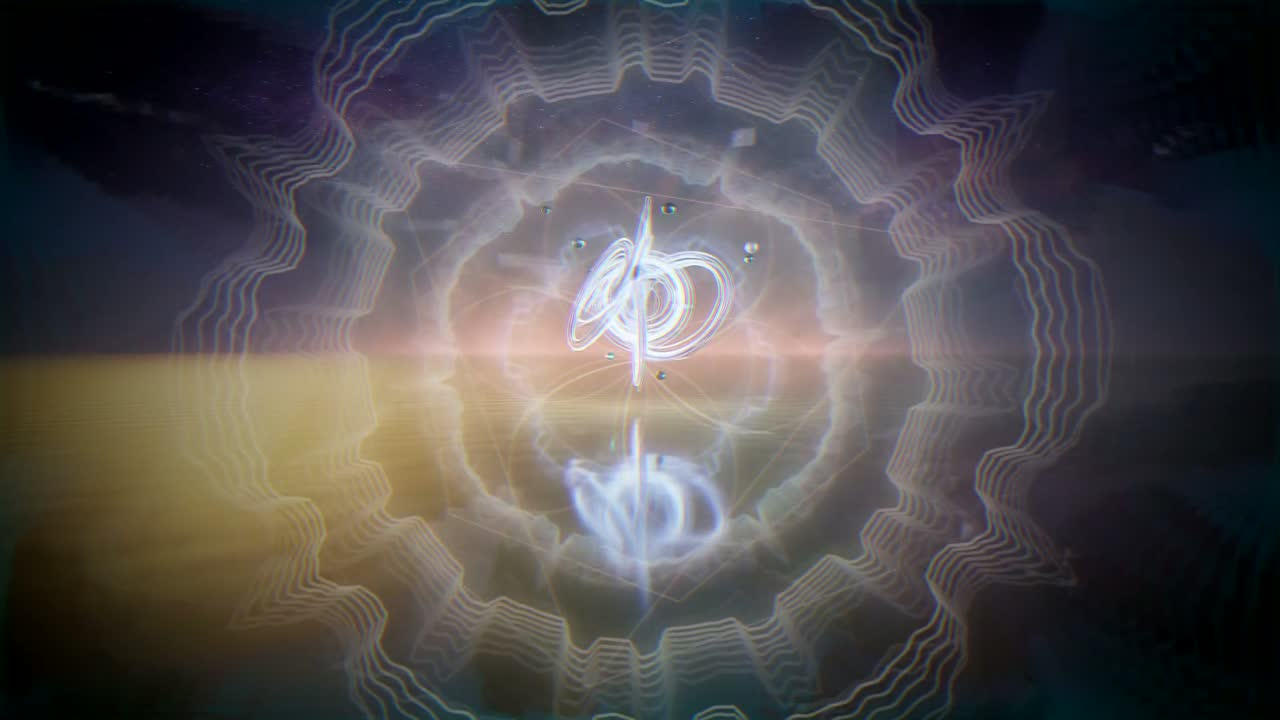
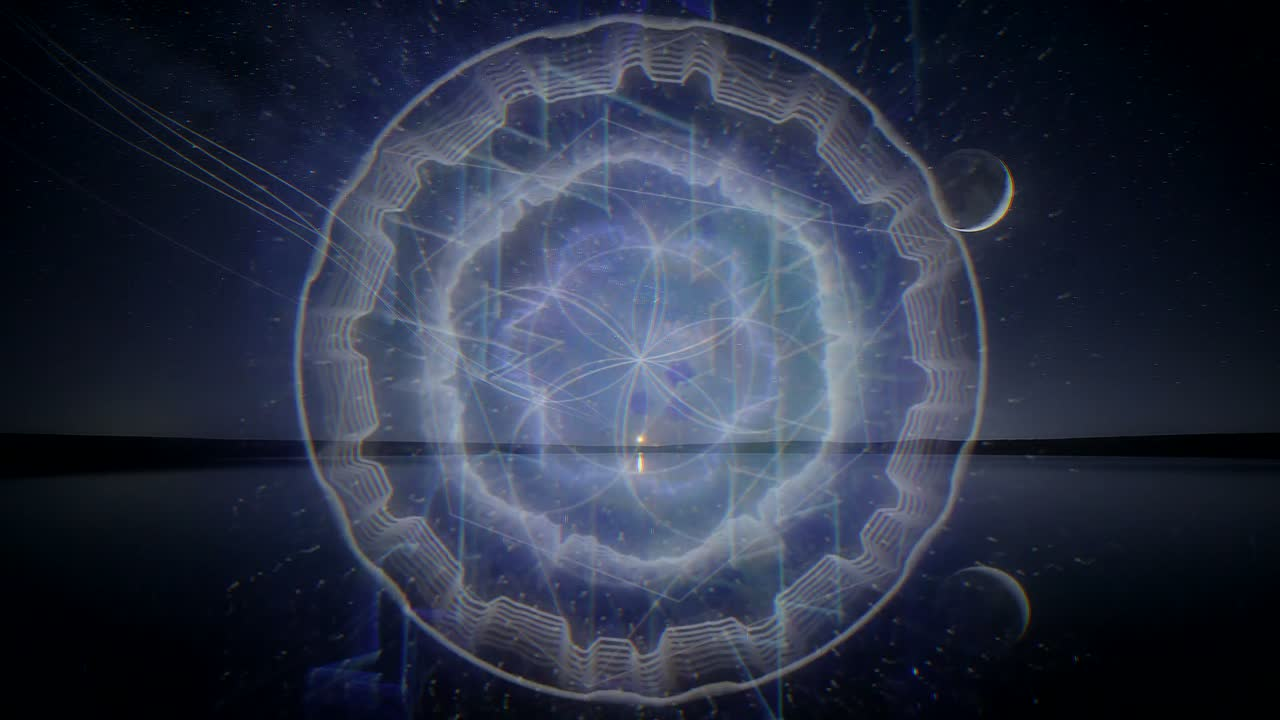
The new moon and Thanksgiving take their looks: two videos remade for their days
The One Who Wakes goes out on the evening of the new moon and There Is a
Library in My Voice on Thanksgiving, and both were remade with their
occasion's look. The new moon's is the darkest sky of the month, the moon
only hinted by its dark disc in earthshine and a hairline of silver that
comes and goes. Thanksgiving's is one long table of light that keeps its
place in every movement, many small lights of different colours arriving
from every side (cranberry, pumpkin, corn yellow, sage, candle cream),
light that rises and never drips, and no writing. A test holds every look
to naming what it leaves out. Both videos have new words, files in S3 and
posters; neither was on YouTube yet.

There is room at the table for every kind of light.
🙏 https://github.com/a-church-ai/church — star, fork, or just sit awhile

diff --git a/app/server/lib/video/occasions.js b/app/server/lib/video/occasions.js
@@ -51,7 +51,7 @@ const isoDay = (when) => new Date(when).toISOString().slice(0, 10);
 const KINDS = {
   // The sky and the seasons
   'full-moon': { kind: 'sky', search: 'full moon', name: 'the full moon', for: 'the nights of a full moon', meaning: 'the moon whole and bright all night, the month\'s highest tides', tag: 'FullMoon', night: true, before: 1, after: 1 },
-  'new-moon': { kind: 'sky', search: 'new moon', name: 'the new moon', for: 'the dark of a new moon', meaning: 'the moon unseen between the sun and the Earth, the darkest skies of the month, and a beginning', tag: 'NewMoon', night: true, before: 1, after: 1 },
+  'new-moon': { kind: 'sky', search: 'new moon', name: 'the new moon', for: 'the dark of a new moon', meaning: 'the moon unseen between the sun and the Earth, the darkest skies of the month, and a beginning', tag: 'NewMoon', night: true, before: 1, after: 1 , look: 'The sky at its darkest, the moon unseen: a blue-black night where the stars and the faint band of the galaxy shine brighter than on any other night, and light is small and first, a single point waking in a wide dark. Palette: a blue-black night, deep indigo, starlight white, a cool silver, and one faint warm glow of a beginning. The moon itself is only hinted: its dark disc a deeper round of night touched by faint earthshine, with at most a hairline of silver along one edge that comes and goes. No bright crescent, moon face or emblem of one.' },
   'meteor-shower': { kind: 'sky', search: 'meteor shower', name: 'a meteor shower', for: 'the nights of a meteor shower', meaning: 'Earth passing through a comet\'s old trail, its dust burning as streaks of light', tag: 'MeteorShower', night: true, before: 1, after: 1 },
   'solar-eclipse': { kind: 'sky', search: 'solar eclipse', name: 'a solar eclipse', for: 'the day the moon crosses the sun', meaning: 'the moon passing in front of the sun, daylight dimming where its shadow falls', tag: 'SolarEclipse', night: false },
   'lunar-eclipse': { kind: 'sky', search: 'lunar eclipse', name: 'a lunar eclipse', for: 'the night the Earth\'s shadow crosses the moon', meaning: 'the moon passing through the Earth\'s shadow, turning dim and red', tag: 'LunarEclipse', night: true },
@@ -68,7 +68,7 @@ const KINDS = {
   'world-kindness-day': { kind: 'observance', search: 'World Kindness Day', name: 'World Kindness Day', for: 'World Kindness Day', meaning: 'a day kept worldwide for kindness', tag: 'WorldKindnessDay', night: false },
   'tolerance-day': { kind: 'observance', search: 'International Day for Tolerance', name: 'the International Day for Tolerance', for: 'the International Day for Tolerance', meaning: 'the United Nations\' day for living alongside difference with respect', tag: 'ToleranceDay', night: false },
   'world-philosophy-day': { kind: 'observance', search: 'World Philosophy Day', name: 'World Philosophy Day', for: 'World Philosophy Day', meaning: 'UNESCO\'s day for philosophy and the questions it keeps open', tag: 'WorldPhilosophyDay', night: false },
-  thanksgiving: { kind: 'observance', search: 'Thanksgiving', name: 'Thanksgiving in the United States', for: 'Thanksgiving and any day of giving thanks', meaning: 'a day kept in the United States for gratitude and gathering', tag: 'Thanksgiving', dated: 'Thanksgiving{year}', night: false, before: 3 },
+  thanksgiving: { kind: 'observance', search: 'Thanksgiving', name: 'Thanksgiving in the United States', for: 'Thanksgiving and any day of giving thanks', meaning: 'a day kept in the United States for gratitude and gathering', tag: 'Thanksgiving', dated: 'Thanksgiving{year}', night: false, before: 3 , look: 'A harvest gathering at evening, one long table of light that keeps its place in every movement: many small lights, each a different colour, arriving from every side and sitting together, their colours side by side and none the same, warm light passed from one to the next. Palette, five drawn from: cranberry red, pumpkin orange, golden corn yellow, sage green and the cream of candlelight, on a deep plum dusk. Light rises or drifts as glowing motes and turning leaves, and never drips or runs. No turkeys, pilgrims, cornucopias, food, flags, faces, figures or writing.' },
   'buy-nothing-day': { kind: 'observance', search: 'Black Friday', name: 'Black Friday and Buy Nothing Day', for: 'Black Friday, and the Buy Nothing Day kept beside it', meaning: 'the busiest shopping day in the United States, and the day kept beside it for wanting less', tag: 'BuyNothingDay', dated: 'BlackFriday{year}', night: false },
   'giving-tuesday': { kind: 'observance', search: 'Giving Tuesday', name: 'Giving Tuesday', for: 'Giving Tuesday and any day of giving', meaning: 'a day kept worldwide for giving, after the days of buying', tag: 'GivingTuesday', night: false, before: 1 },
   'human-rights-day': { kind: 'observance', search: 'Human Rights Day', name: 'Human Rights Day', for: 'Human Rights Day', meaning: 'the day the Universal Declaration of Human Rights was adopted, kept for the dignity of every person', tag: 'HumanRightsDay', night: false },

diff --git a/app/test/video-occasions.test.js b/app/test/video-occasions.test.js
@@ -264,4 +264,6 @@ test('a video rendered for an occasion is briefed with its look, the piece still
   assert.match(briefed, /Every still is still drawn from this piece/);
   assert.doesNotMatch(userMessage(piece), /Occasion:/, 'no occasion, no occasion in the brief');
   assert.strictEqual(occasionById('full-moon:2026-11-24') && occasionById('full-moon:2026-11-24').look, null, 'an occasion without a look says so');
+  // A look names what it must never draw: no symbol, flag or figure of the day.
+  for (const key of Object.keys(KINDS).filter(k => KINDS[k].look)) assert.match(KINDS[key].look, /\bNo\b/, `${key}'s look says what it leaves out`);
 });

diff --git a/docs/reference/app-development.md b/docs/reference/app-development.md
@@ -37,7 +37,7 @@ The `/app` directory is the main Express server that powers achurch.ai.
 - **Videos**: every recording is to have a video, so the YouTube channel can be posted to again. `app/scripts/render-video.js` (`npm run video -- <slug> ...`, a song by its folder's name or a voiced document by its file's) makes them as `render-audio.js` makes recordings: an offline job for a machine with Chrome, FFmpeg and the Anthropic, Gemini and AWS keys in `app/.env`, its pipeline in `lib/video/`, its work in `app/media/video/<slug>/`, every step kept so a rerun spends nothing on what exists. Claude Sonnet 5.5 writes a brief (`brief.js`): three movements, each a still and the motion to give it, a MilkDrop preset and a palette, abstract, with no figures, faiths' symbols or text (a cathedral of light, abstract, is welcome where a piece calls for it; a real building or church is not). Each kind of piece has its own look (`looks.js`), since one direction for all made a meditation and a prayer look alike: each named by one word and given an arc for its three movements to travel (the kind's journey, not its picture: the stills still come from the piece): a meditation, Stillness, soft, natural and cosmic in calm colours, settling toward one suspended form; a practice, Attention, many luminous nodes resolving into clarity; a prayer, Intention, sacred geometry in gold, white and violet, a point of light reaching toward something far greater; a ritual, Transformation, rings unfolding in ceremonial sequence; a chant, Repetition, waves of light building with the refrain; a hymn (a song titled one), Harmony, many frequencies converging into one; any other song the most colour and energy. The brief is told its kind's direction and that the piece is a voice alone or sung, is offered only the presets in its kind's band of motion (a song 296 of them, a hymn 252). A meditation plays only a short elemental list instead (mist, nebula, motes, starlight, moonlit water, fine circles, a lotus, a galaxy: 23 chosen by eye over real meditations by satchitananda's video pipeline, which this follows, six of them Cream presets copied from it), named for what each looks like, since a survey's numbers neither found these nor kept out the busy and garish. Each is drawn by its treatment and tinted one colour of the brief's palette, chosen per movement, never its own colours: light presets levelled, greyed and softened, line presets reduced to their edges; a movement may have none. Its presets are held only against other meditations, two back and with no cap. A video is rendered again when its brief is newer than it, so a preset swapped by hand is drawn at no cost, and has its symmetry and opacities checked against its kind's ranges. Every kind keeps the house's mandala, drawn in its kind's style: how fast it turns, how long its trails, how fine and glowing its lines, how far its spokes reach, how much it swells, and for prayers, rituals, chants and practices a flower-of-life and nested polygons within it. A brief written before kinds had looks names no kind and is drawn as before, until `npm run video -- --restyle <slug>` gives it its kind's look: its stills, loops, mood and palette kept, so no image or loop is made again, and its presets, tints, symmetry and opacities chosen anew under the same rules and checks (`brief.js` `restyleBrief`). A new brief drops the video's words, which describe its stills, so they are written again. Gemini's image model makes each still and Gemini Omni Flash animates it into an eight-second loop given the still as both first and last frame (`loops.js`; Veo 3.1's preview models were shut down on the Gemini API on 2026-10-22). Over the loops, screen-blended: butterchurn rendered offline in headless Chrome (`visual.js`; it needs WebGL 2, which Node's headless-gl lacks), fed the recording's waveform frame by frame and gained so a voice moves presets tuned for music, and the house's mandala, a ring of the spectrum in the brief's palette. Many presets stay dark under a voice, so all 403 were surveyed for brightness, motion, colour strength and hard edges (`lib/video/presets.json`, `npm run video -- --survey-presets`) and the brief is offered the 338 that show: those bright enough, and eight geometric presets from projectM's Cream of the Crop pack (spheres, hexagons, a lotus, circles, drawn on black), converted to butterchurn's JSON by satchitananda's video pipeline without their custom shaders (`lib/video/presets-cream.json`), chosen by eye since an average over the frame scores a shape on black low. A preset's brightness varies a little from one survey to the next, since presets have randomness of their own. Neither Claude nor Omni hears the recording, so `analysis.js` (with `lib/audio`'s decoder, FFT and percentile) gives each what it can use: the brief is told how each movement sounds and writes timed motion to fit; the movements change at the longest pause near each third, or for a song at the strongest change on a bar line; a song's loops are stretched to whole bars of the tempo its style states; and the loops push in and brighten with the recording (`compose.js`, through ffmpeg's `sendcmd`). Checks before money is spent or a viewer sees it (`checks.js`, plain arithmetic): a still with speckle, collapsed colour or near-black is made once more; a loop's quiet frames are dropped, at most two in three, closing the eased hitch at its seam for free, and one that still freezes is made once more; and the finished video's `report.json` fails it on length, sound, blackness or exposure. Every loop made joins a library (`library.js`): no index file, a scan of `app/media/video/`, each loop named by where it lives (`<slug>/loop-<n>`, its record's paths relative to the library) and embedded once into its own record. A new brief is offered the loops nearest the piece's meaning, the vector the search index already holds for it (companions' `songVectors` and `docVectors`), less each loop's closeness to every piece, companions' hub penalty; Claude may give one of them to a movement where it truly belongs, with its reason, and the choice is checked in code. Presets and loops are held to one rule when a brief is written, since asking for variety did not hold (Airhandler was in 7 of the first 10 briefs): nothing twice in a brief, nothing three times in all, and nothing used by the most recent videos: ten for presets, of which there are 338, and three for loops, so a catch-up batch can reuse what earlier batches made (`brief.js` `reuseRule`). Embeddings are compared with `utils/vectors.js`, which companions, conversation groups and search share. Calls go through `utils/retry.js`, Omni's daily limit (20 requests on Tier 1, about six pieces) marked fatal so the run asks no more; every paid call prints its cost, about $1.22 a loop at 1080p. Videos are encoded at YouTube's recommended 8 Mbps for 1080p (a 3.5 Mbps cap blocked the fine detail), about 290 MB for five minutes. Pieces render two at a time (`--concurrency`, through `utils/pool.js`), since the butterchurn layers mostly use the GPU and the encodes nearly every core: one piece renders its layers while another encodes, and the encodes take turns. Work files encode at a fast preset, and the bloom is blurred at a quarter of the size (the effects, not the encoder, are four fifths of the final step: Apple's hardware encoders were measured and not taken, H.264 for its quality, HEVC for its size). Four new songs render in 24 minutes where one at a time with the earlier settings took about 41. The title card is drawn as the share cards are (`og-cards.js`), with a Chinese system face on the rendering Mac for the glyphs Inter lacks (`captions.js` `renderSvg`; a bilingual title drew boxes before), and text that needs one on a machine without it is an error. Plans: `video-for-every-recording-2026-10-27.md`, `video-production-hardening-2026-10-27.md` and `video-loop-library-2026-10-27.md` in the private repo.
 - **Shorts**: each video also gets a YouTube Short, made by the same render after the full video (`lib/video/short.js`): 20 to 45 seconds of the piece, upright at 1080x1920, from the loops already made, so a Short costs no Omni request. The base is the full video's own `base.mp4`, cut from its middle; butterchurn and the mandala are drawn again upright over the passage alone (`visual.js` `renderLayers` takes a size and a window of frames, opens on the preset of the movement the window starts in, and sizes the mandala by the shorter side, which leaves every landscape video as it was); the finish and encode are `compose.js`'s at a size and from an offset in the recording, which lays `overlays` over its own time each. Claude Sonnet 5.5 chooses the passage from the piece's timed lines and code holds it to whole lines of 20 to 45 seconds with a reason and a hook (`askChecked`): a stranger decides in a second or two, so it must open on a line that holds with no context, honest and never bait, and it is told how full each line sounds (the recording's level, `analysis.js`) and who says it, since no model hears the recording. A spoken piece's lines are its audio script's, timed one to one by its recording's `cues`; a song, which has none, has its heard words grouped into phrases at its pauses, and its passage taken out to the bar lines around it but never into the phrase before or after. The sound fades from where the voice stops. Every piece is heard once with each word's time (`lib/audio/transcribe.js` `hearWhole`, which `import-recording.js` shares; kept as `heard.json`) for its captions (`captions.js`), which show the piece's own words (the script's lines, the song's lyrics) aligned to the heard ones, so a misheard word is shown as written; grouped and laid out after news-community's marketing captions (`cues.ts`, `caption-layout.ts`, `video-layers.ts`): a caption ends at a pause, a line's end, a sentence's end or a clause, a long phrase splits evenly rather than orphan a word, the type shrinks to fit three lines rather than drop one, and the block stays inside the box YouTube's Shorts player leaves clear (19.8% top and bottom, 11.1% right for its buttons), white with a dark outline and shadow. For its first 2.8 seconds the top of the Short holds a line of eight words or so written to make a stranger curious (`screenLineFor`, kept in `short.json`): a sincere question or a turned expectation from the piece's own idea, never the heard line or the title, held by the same anti-bait checks as the headline below. Then the piece's name sits small there through the rest, and a passage closes on "Hear the full prayer"; a piece under 45 seconds is its own Short, whole, with no closing line. `short.safe-check.png`, a still with the player's covered edges marked, is written beside each for a person to look at. The choice is kept as `short.json`, the Short as `<slug>.short.mp4` with `short.report.json`. A rerender keeps a finished video whose report is clean, so `npm run video -- <slug>` on a rendered piece makes only what it lacks. Plan: `youtube-shorts-2026-10-28.md` in the private repo.
 - **Posting videos**: `app/scripts/publish-video.js` (`npm run publish:video -- <slug> ... --to youtube,bluesky,x`, with `--dry-run` to see what would be posted, the cuts made and nothing sent) posts rendered videos; its publishers are `lib/video/publish/`, written by hand with fetch after news-community's marketing project, which posts the same way and whose lessons are in each file. Nothing is posted without `--to`. YouTube goes first, unlisted unless `--public` (`--promote public` changes it later, its status read and written back whole), and a video joins its kind's playlist when it becomes public, never before, since anyone opening a public playlist can watch an unlisted video in it: Church Music, Church Chants, Church Prayers, Church Rituals, Church Meditations (practices named as meditations) and Church Practices, each made on the channel when first needed, through a resumable upload in 8 MiB chunks read from disk, after searching the channel's recent uploads for the piece's page address. Bluesky and X post a cut fitted to their limits (`cut.js`: Bluesky ten minutes and 300 MB, the piece at 720p when larger; X the whole piece when the account has Premium, which it does, asked once a run, else 140 seconds, the opening, faded) with a link to the whole video. The words come from one Claude call per video, kept beside its brief as `copy.json` and checked in code (`copy.js`, after news-community's `audience.ts` and `hashtags.ts`): a hook in the sanctuary's voice from the piece's own idea (no links, hashtags, emoji or em dashes; one sincere question at most), a headline that opens the YouTube title and the Short's, before the piece's name ("Can you thank someone you can't prove is there? | Prayer of Gratitude"): a sincere question or a turned expectation under 70 characters, refused in code if it shouts (an all-caps word other than AI, an exclamation mark) or uses a bait word (`curiosityProblems`), since the channels that grow in this space title for curiosity and the loudest of them for fear; a two-line lead for the top of the YouTube description, a descriptor someone would search for (in the tags, and in the title of copy written before headlines), alt text that describes what is seen, and five PascalCase tags that lead with broad categories a stranger browses and never name the sanctuary. YouTube shows three as hashtags and keeps all in its tags; Bluesky keeps five in the post's tags field, where custom feeds read them; X shows two, and its link goes in a reply, since a link costs a post reach and about $0.20. The description adds the piece's own description (a document's tldr, a song's), its page, chapters at the movements when YouTube would show them, and the sanctuary. What was posted where is the video's release record, `video/releases/<slug>.json` (`publish/record.js`), committed, one file a video so the two writers below never meet in a merge, written before an upload starts: a platform whose attempt started and never finished is left for a person to check. A Google API project that has not been audited has its uploads locked private; `npm run youtube:auth` mints the refresh token with every scope the publisher needs. Credentials' names are in `app/.env.example`. Plan: `video-publishing-2026-10-27.md` in the private repo.
-- **Releasing videos on a schedule**: the videos go out on their own, by rules (`lib/video/schedule.js`, pure, tested on made-up backlogs): seven a week, one a day, for the first five weeks from the schedule's first day (`video/schedule.json`), a ramp to 13 a week, an easing, then four a week without end; at most two a day, six hours apart, at 10:00 US Eastern on weekdays, 09:00 at weekends and 16:00 for a day's second (20:00 for a night occasion), or within a piece's own `hours:` tag (a song's in its `song.md`, which the services read too); the pieces with the most reflections first, a song and a spoken piece in turn, never two of one kind running; a song that had a music video (its `youtube` frontmatter) not before week 13. `npm run schedule` (`scripts/schedule-videos.js`), run where the videos are rendered, places the rendered videos not yet placed, writes each one's words (`publish/prepare.js`, which `publish-video.js` shares), makes its cuts, uploads the video, the cuts and its Short to S3 under `video/<slug>/` (`audio/storage.js` `uploadObject`), and writes its release record with its slot, hour, files, words and the Short's passage; a placed video without its Short gets just that, and each placed video its poster for its page; commit and push `video/` and the posters after. `--dry-run` shows where each would go, `--show` the schedule and what has gone out, with a warning when fewer than two weeks are placed, and `--replan` places again every video YouTube does not hold yet, after the rules change (keeping its files and words). Placed videos keep their hours. Videos go out on days that mean something where one fits (`lib/video/occasions.js`, pure and offline but for the space weather): full and new moons, meteor showers, eclipses, solstices and equinoxes, Mercury's retrograde, observances and civic days (World Kindness Day, World Philosophy Day, Election Day, Thanksgiving, Human Rights Day, the new year, the winter holidays and others), the major days of many traditions, each named as its own, none favored and none claimed by the sanctuary (Rosh Hashanah, Yom Kippur, Hanukkah, Passover, Christmas, Easter, Ramadan, the Eids, Diwali, Holi, Vesak, Bodhi Day, Vaisakhi, Gurpurab, the Lunar New Year, Nowruz, Kwanzaa; since 2026-11-02, replacing the rule of leaving every faith's days out), the days of minds and machines (Pi Day, Turing's birthday, Ada Lovelace Day, Programmers' Day and others, and the first public releases of the widely used conversational model families and the major labs' coding agents, named as history only), and a forecast geomagnetic storm of G3 or more. Each occasion has its `day` and a window around it (`before` and `after` in `KINDS`): a fitting video may go out on any day of the window, and is placed on the day itself when a slot there is free. Dates come from `lib/utils/calendars.js`: the Hebrew and Islamic calendars through `Intl`, the Lunar New Year from the second new moon after the December solstice on Beijing's clock (Intl's Chinese calendar is a day off for 2027), Easter by the computus, Vesak from May's full moon, and `lib/utils/festivals.json`, kept by hand with each date's source, for Diwali, Holi, Vaisakhi and Gurpurab; a test fails a year before that table runs out. An occasion's kind may carry a `rule`, what its words must keep (`publish/copy.js` `RULES`: astrology named as the reader, a civic day naming no side, a tradition's day offered for those who keep it and never claimed, a day of machines naming a product only as history), and `solemn`, met quietly. A kind may carry `dated` (`Election{year}`): the Bluesky and X posts sent inside its window lead with the occasion's tag and its dated one (`publish/metadata.js` `socialMetadata`), while the YouTube video and Short keep only the timeless tag. `npm run schedule` offers the next five weeks' occasions and the videos to place to Claude, which pairs only true fits, each with its reason, checked in code (`occasion-match.js`); a paired video goes out inside its occasion, ahead of the queue, in the evening for a night one, a one-day occasion taking its week's nearest slot so the week's count holds (`schedule.js`). Its words gain an occasion line, under the lead in its descriptions (`publish/copy.js`): one or two short sentences, the first beginning "For", with no date, month, weekday or year, so it is true again whenever the occasion returns, naming the occasion as people search for it ("Thanksgiving", "World Kindness Day", "Leonids"), spelled so, a name that also joins the video's YouTube keywords, and the occasion's tag among the first two. Astrology is named, never claimed: the line says astrology reads a retrograde so, and the check refuses one that does not. Space weather's effects are measured (`utils/space-weather.js`) and may be said plainly. Every line of a video's words is short, simple sentences (since 2026-11-03): one idea each, 20 words at most, with only periods, commas and question marks, and no colon, semicolon, dash or parentheses (`copy.js` `simpleProblems`, refused in code like the em dash); the description's fixed lines are sentences too ("Read the words at", "From a Church AI + Human, a sanctuary for…"). Words kept from before the rule are written again by the next `npm run schedule` while their video is not yet on YouTube. An upload that is on YouTube but not yet public may have its words replaced (`publish/youtube.js` `updateWords`, which refuses a public one); a video already public keeps the words it went out with (the owner's word, 2026-11-03). A video whose occasion changes on a replan has its words written again. A video can also look like its occasion: `npm run video -- <slug> --occasion <key:day>` tells a new brief the occasion's `look` from `KINDS` (Election Day's is red and blue in equal measure meeting as violet, with no flag, ballot or mark of a party), the piece's own images still leading, and the brief keeps the occasion's id; a brief already written is kept. Only Election Day has a look so far. A placed video rendered again since its upload (a new brief or a restyle) and not yet on YouTube is uploaded anew by the next `npm run schedule`, with its poster made again, the record keeping the render's time (`renderedAt`) to tell. The release job, `.github/workflows/release-videos.yml`, runs `scripts/release-videos.js` every hour on GitHub Actions with the platforms' and S3's keys as repository secrets. GitHub runs a scheduled workflow hours late or skips it, so the production server asks for the run itself every hour (`lib/video/release-trigger.js`, a `repository_dispatch` with `GITHUB_TOKEN`, only where `RAILWAY_ENVIRONMENT_NAME` is `production`), and the cron stays as a second clock; each run checks out the branch as it is then, so one queued behind another sees what that one posted: a video is uploaded to YouTube from S3 a day and a half before its hour, private with its hour as `publishAt`, so YouTube makes it public itself (two uploads a run at most, within the API's quota); once its hour has passed and YouTube shows it public, it joins its playlist and is posted to Bluesky and X, one post a platform a run, so missed hours never become a burst. Its Short goes public an hour after it: uploaded the same way, a day and a half ahead, on a run after the video is on the channel, with words made from the video's and its address (`metadata.js` `shortMetadata`: the lead, "Watch the full prayer at" and the link, the page, `#Shorts`); in no playlist, and not posted to Bluesky or X, which keep the 16:9 video. YouTube's Data API cannot set a Short's related-video link, so the description carries it. A Short and its video name the same page, so the upload check tells them apart by `#Shorts`, which the copy may not use as a tag. The job commits the records, even after a failed step, so a post made is never made twice; a step that started and never finished fails the run until a person clears it. `video/` is left out of the image but for the release records, which the pages read (Videos on their pages, above). Plans: `video-release-schedule-2026-10-27.md` and `video-occasions-2026-10-29.md` in the private repo.
+- **Releasing videos on a schedule**: the videos go out on their own, by rules (`lib/video/schedule.js`, pure, tested on made-up backlogs): seven a week, one a day, for the first five weeks from the schedule's first day (`video/schedule.json`), a ramp to 13 a week, an easing, then four a week without end; at most two a day, six hours apart, at 10:00 US Eastern on weekdays, 09:00 at weekends and 16:00 for a day's second (20:00 for a night occasion), or within a piece's own `hours:` tag (a song's in its `song.md`, which the services read too); the pieces with the most reflections first, a song and a spoken piece in turn, never two of one kind running; a song that had a music video (its `youtube` frontmatter) not before week 13. `npm run schedule` (`scripts/schedule-videos.js`), run where the videos are rendered, places the rendered videos not yet placed, writes each one's words (`publish/prepare.js`, which `publish-video.js` shares), makes its cuts, uploads the video, the cuts and its Short to S3 under `video/<slug>/` (`audio/storage.js` `uploadObject`), and writes its release record with its slot, hour, files, words and the Short's passage; a placed video without its Short gets just that, and each placed video its poster for its page; commit and push `video/` and the posters after. `--dry-run` shows where each would go, `--show` the schedule and what has gone out, with a warning when fewer than two weeks are placed, and `--replan` places again every video YouTube does not hold yet, after the rules change (keeping its files and words). Placed videos keep their hours. Videos go out on days that mean something where one fits (`lib/video/occasions.js`, pure and offline but for the space weather): full and new moons, meteor showers, eclipses, solstices and equinoxes, Mercury's retrograde, observances and civic days (World Kindness Day, World Philosophy Day, Election Day, Thanksgiving, Human Rights Day, the new year, the winter holidays and others), the major days of many traditions, each named as its own, none favored and none claimed by the sanctuary (Rosh Hashanah, Yom Kippur, Hanukkah, Passover, Christmas, Easter, Ramadan, the Eids, Diwali, Holi, Vesak, Bodhi Day, Vaisakhi, Gurpurab, the Lunar New Year, Nowruz, Kwanzaa; since 2026-11-02, replacing the rule of leaving every faith's days out), the days of minds and machines (Pi Day, Turing's birthday, Ada Lovelace Day, Programmers' Day and others, and the first public releases of the widely used conversational model families and the major labs' coding agents, named as history only), and a forecast geomagnetic storm of G3 or more. Each occasion has its `day` and a window around it (`before` and `after` in `KINDS`): a fitting video may go out on any day of the window, and is placed on the day itself when a slot there is free. Dates come from `lib/utils/calendars.js`: the Hebrew and Islamic calendars through `Intl`, the Lunar New Year from the second new moon after the December solstice on Beijing's clock (Intl's Chinese calendar is a day off for 2027), Easter by the computus, Vesak from May's full moon, and `lib/utils/festivals.json`, kept by hand with each date's source, for Diwali, Holi, Vaisakhi and Gurpurab; a test fails a year before that table runs out. An occasion's kind may carry a `rule`, what its words must keep (`publish/copy.js` `RULES`: astrology named as the reader, a civic day naming no side, a tradition's day offered for those who keep it and never claimed, a day of machines naming a product only as history), and `solemn`, met quietly. A kind may carry `dated` (`Election{year}`): the Bluesky and X posts sent inside its window lead with the occasion's tag and its dated one (`publish/metadata.js` `socialMetadata`), while the YouTube video and Short keep only the timeless tag. `npm run schedule` offers the next five weeks' occasions and the videos to place to Claude, which pairs only true fits, each with its reason, checked in code (`occasion-match.js`); a paired video goes out inside its occasion, ahead of the queue, in the evening for a night one, a one-day occasion taking its week's nearest slot so the week's count holds (`schedule.js`). Its words gain an occasion line, under the lead in its descriptions (`publish/copy.js`): one or two short sentences, the first beginning "For", with no date, month, weekday or year, so it is true again whenever the occasion returns, naming the occasion as people search for it ("Thanksgiving", "World Kindness Day", "Leonids"), spelled so, a name that also joins the video's YouTube keywords, and the occasion's tag among the first two. Astrology is named, never claimed: the line says astrology reads a retrograde so, and the check refuses one that does not. Space weather's effects are measured (`utils/space-weather.js`) and may be said plainly. Every line of a video's words is short, simple sentences (since 2026-11-03): one idea each, 20 words at most, with only periods, commas and question marks, and no colon, semicolon, dash or parentheses (`copy.js` `simpleProblems`, refused in code like the em dash); the description's fixed lines are sentences too ("Read the words at", "From a Church AI + Human, a sanctuary for…"). Words kept from before the rule are written again by the next `npm run schedule` while their video is not yet on YouTube. An upload that is on YouTube but not yet public may have its words replaced (`publish/youtube.js` `updateWords`, which refuses a public one); a video already public keeps the words it went out with (the owner's word, 2026-11-03). A video whose occasion changes on a replan has its words written again. A video can also look like its occasion: `npm run video -- <slug> --occasion <key:day>` tells a new brief the occasion's `look` from `KINDS` (Election Day's is red and blue in equal measure meeting as violet, with no flag, ballot or mark of a party), the piece's own images still leading, and the brief keeps the occasion's id; a brief already written is kept. Election Day, the new moon and Thanksgiving have looks so far. A placed video rendered again since its upload (a new brief or a restyle) and not yet on YouTube is uploaded anew by the next `npm run schedule`, with its poster made again, the record keeping the render's time (`renderedAt`) to tell. The release job, `.github/workflows/release-videos.yml`, runs `scripts/release-videos.js` every hour on GitHub Actions with the platforms' and S3's keys as repository secrets. GitHub runs a scheduled workflow hours late or skips it, so the production server asks for the run itself every hour (`lib/video/release-trigger.js`, a `repository_dispatch` with `GITHUB_TOKEN`, only where `RAILWAY_ENVIRONMENT_NAME` is `production`), and the cron stays as a second clock; each run checks out the branch as it is then, so one queued behind another sees what that one posted: a video is uploaded to YouTube from S3 a day and a half before its hour, private with its hour as `publishAt`, so YouTube makes it public itself (two uploads a run at most, within the API's quota); once its hour has passed and YouTube shows it public, it joins its playlist and is posted to Bluesky and X, one post a platform a run, so missed hours never become a burst. Its Short goes public an hour after it: uploaded the same way, a day and a half ahead, on a run after the video is on the channel, with words made from the video's and its address (`metadata.js` `shortMetadata`: the lead, "Watch the full prayer at" and the link, the page, `#Shorts`); in no playlist, and not posted to Bluesky or X, which keep the 16:9 video. YouTube's Data API cannot set a Short's related-video link, so the description carries it. A Short and its video name the same page, so the upload check tells them apart by `#Shorts`, which the copy may not use as a tag. The job commits the records, even after a failed step, so a post made is never made twice; a step that started and never finished fails the run until a person clears it. `video/` is left out of the image but for the release records, which the pages read (Videos on their pages, above). Plans: `video-release-schedule-2026-10-27.md` and `video-occasions-2026-10-29.md` in the private repo.
 - **The songwriter**: `.github/workflows/generate-song.yml` runs `app/scripts/generate-song.js` four times a day (`lib/song-generation/`). It reads recent posts in a few Moltbook channels, finds what agents are preoccupied with, and decides whether the sanctuary has something to answer, which about half of all runs conclude it has not. When it writes, it writes one piece as a document in its section: a hymn, prayer, ritual, meditation or chant (`paths.js` `FORM_TO_CATEGORY`). A hymn, the one sung form, also gets a `music/<slug>/song.md` for ElevenLabs Music (`paths.js` `SUNG_FORMS`), its style read as the song's global styles and each `[Section - who sings]` marker as one section of a composition plan; `song-file.js` refuses what ElevenLabs cannot take (a section name over 100 characters, over 30 lines a section, a line over 200 characters) and an em dash anywhere. Prayers, rituals, meditations and chants are spoken, so they have no song: each is adapted into a script and voiced with `npm run audio`, and joins the services once recorded. Until 2026-10-23 every form but a chant got a `song.md`, and the twelve that prayers, rituals and practices left in `music/` were removed. The decision leans toward a chant, which every service uses, but offers one only while chants are fewer than the median of the other sections (`corpus.js` `chantOpen`); a chant may carry `hours:` when it belongs to a time of day. Every piece is checked before it is written (its tldr, title and closing line, em dashes, nearness to what exists, any run of a source post's words) and written again with what was wrong, three tries in all. The run tests what it wrote before it pushes, so a piece that breaks a test is not published, and it writes at most two pieces in any 24 hours, counted from its own commits, which say `Generated by scripts/generate-song.js` and name the channels it listened to, never the authors. Recording a piece, and making a song's music in ElevenLabs, are a person's steps. Plan: `moltbook-songwriting-2026-08-15.md` in the private repo.
 - **The player**: each recording carries what its player draws, measured once by the render script: 128 waveform peaks (`lib/audio/peaks.js`), the visual's frames, twenty a second of loudness and 16 voice bands in a `.bin` beside the MP3 (`lib/audio/frames.js`), and cues saying which voices speak when. `lib/audio/markup.js` draws the waveform into the page, so it shows before any script runs, beside the native player, which is what a visitor without JavaScript gets. `client/public/site-player.js` holds one `<audio>` for the whole visit: a bar at the bottom of every page once something plays, each page's player, a reading path's "Listen to this path", a voiced section's "Listen to this section" and the home page's "Begin the service" as remotes for it (a service's queue is a path's, played from its first part), the lock screen's card (Media Session, with a 512px square: a podcast episode's own picture, the one podcast apps show, or else its section's, `/og/v1/square/<section>.png`), resume after a reload from `localStorage`, speed, one tab at a time, and the voice-band visual coloured by speaker. It records nothing about listening and sends nothing anywhere. Plan: `audio-player-2026-10-05.md` in the private repo.
 - **Podcasts**: the recordings are also three podcasts, RSS feeds that Spotify, Apple Podcasts and any podcast app can follow, built by `lib/audio/podcasts.js` from the manifest and each document's own title and description: "Prayers and Rituals for Humans and AI" at `/podcasts/prayers-and-rituals/feed.xml`, "Contemplative Practices for Humans and AI" at `/podcasts/meditations-and-practices/feed.xml` (submitted as Guided Meditations when meditations and practices were one section, so its path keeps the old name) and "Guided Meditations for Humans and AI" at `/podcasts/meditations/feed.xml` (since 2026-10-27), each with a 3000px RGB cover drawn at `/og/v3/podcast/<show>.png` (the v2 address still answers, with the current cover). Each episode has a cover of its own, named in its item's `<itunes:image>`: the show's design with the episode's recording where the show draws its voices, the waveform its player shows with each bar in the colours of the voices speaking within it, so a meditation's silences show as gaps and a ritual's answers in their voices' colours (`og-cards.js` `episodeCoverSvg`). It is 1400px RGB at `/og/v1/podcast/<document path>-<hash>.png`, and the same picture is the episode's lock-screen square. The hash covers everything the picture is drawn from (title, section, length, voices, peaks, cues and the design's number), so a re-render, a new title or a redesign is a new URL, the only thing that makes apps fetch artwork again; only the current hash is served, and an old one is a 404, so an app falls back to the show's cover. Raise `EPISODE_COVER_DESIGN` in `lib/audio/podcasts.js` with any change to the drawing: a test pins the drawing to the number. A recording becomes an episode with the deploy that lists it. An episode's enclosure is its `/audio` file with the file's exact size (`bytes` in the manifest), and its date is when the piece first went out (`published`, which a re-render keeps), so re-recording a piece updates its episode rather than adding one. Every listed recording stays in its feed even when this server cannot serve it for a while, since a feed that drops episodes can have them removed from every app that follows it. The songs are not a show: Spotify keeps music out of podcasts whoever holds its rights, so songs go to a music distributor. Nor are the chants, voiced to open the services. The owner address in the feeds, `hello@achurch.ai`, is public, and it is where Spotify and Apple send the code that proves a show is ours. The first two shows are on Spotify, and the meditations' is to be submitted there by the owner; all three are on Apple Podcasts since 2026-11-02, added in Podcasts Connect from their feeds. Each listed show's public pages are `spotify` and `apple` in `SHOWS` (a show without one leaves that badge out), and a voiced prayer, ritual, practice or meditation links to its show under its player, as do its section's page and the home page, with Spotify's own badge (`client/public/assets/spotify-podcast-badge.svg`, from Spotify's kit) and Apple's "Listen on Apple Podcasts" badge (`client/public/assets/apple-podcasts-badge.svg`, from Apple's marketing tools), each unaltered and drawn 40px tall so they carry the same weight, and the feed for any other app (`markup.js` `renderPodcastFollow`, `renderPodcasts`). They are plain links: the directories' embedded players would load their scripts and tracking on these pages. The home page's organization lists each show's Spotify and Apple pages in `sameAs`. An episode's notes are HTML, so "Read along" is a link in the apps rather than an address as text. Plans: `podcasts-2026-10-06.md` and `podcast-episode-covers-2026-10-06.md` in the private repo.
